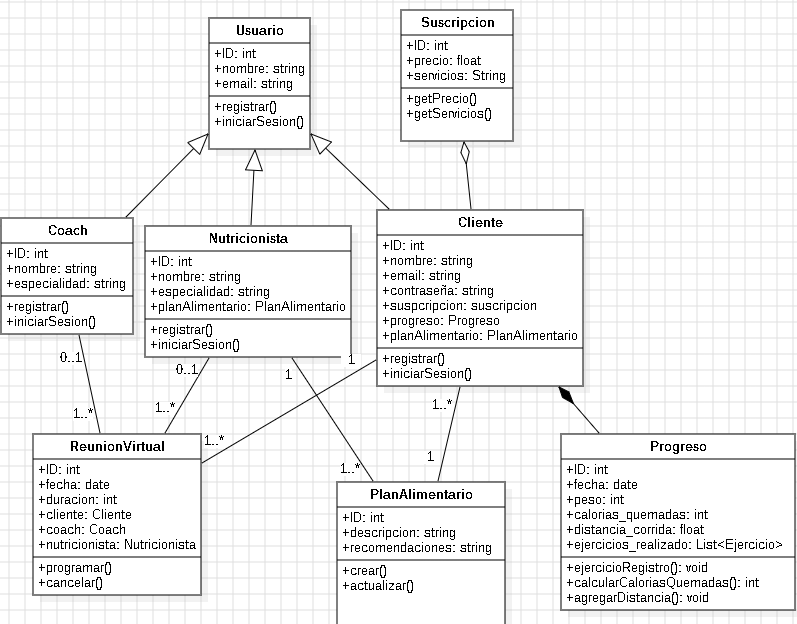
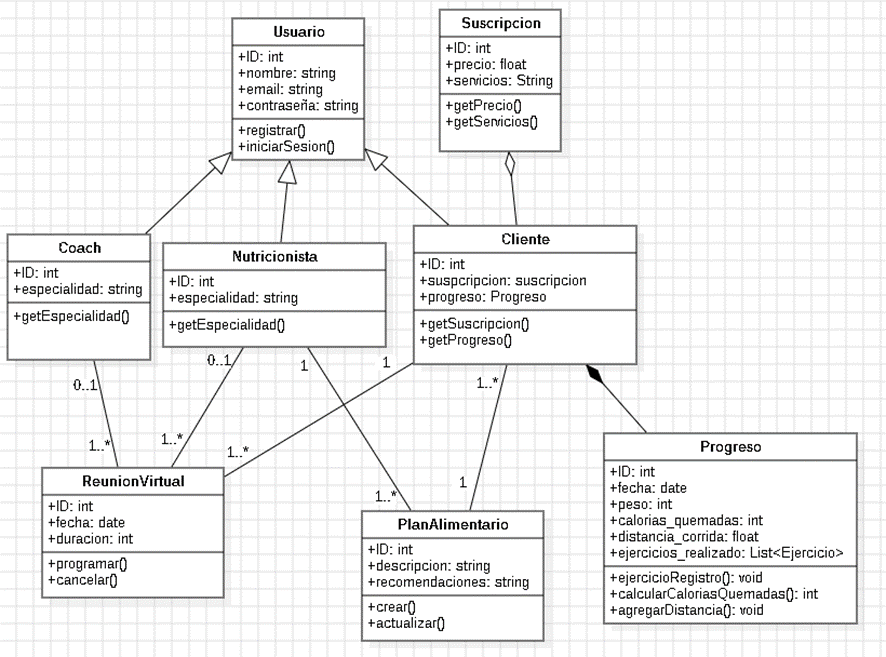
feat: Add Class Diagram

Changed region(s): [[0.0, 0.0, 1.0, 1.0], [0.6324, 0.9744, 0.6625, 1.0]]

diff --git a/feature/chapter04.md b/feature/chapter04.md
@@ -340,6 +340,8 @@ Analysis and Monitoring Component y Communication Component)**
 
 ## 4.7. Software Object-Oriented Design
 ### 4.7.1. Class Diagrams
+<img src="assets/chapter04/Class Diagram.png" alt="Class Diagram">
+
 ### 4.7.2. Class Dictionary
 <table>
 
